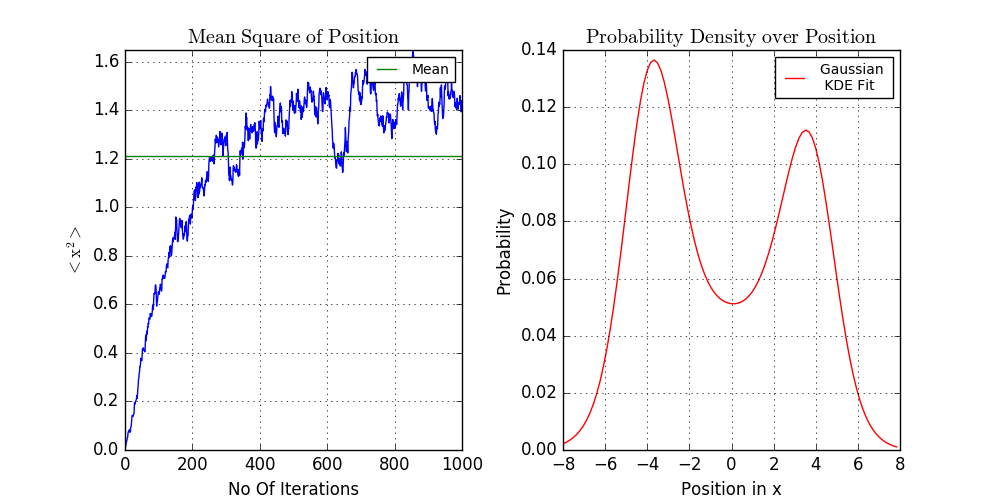
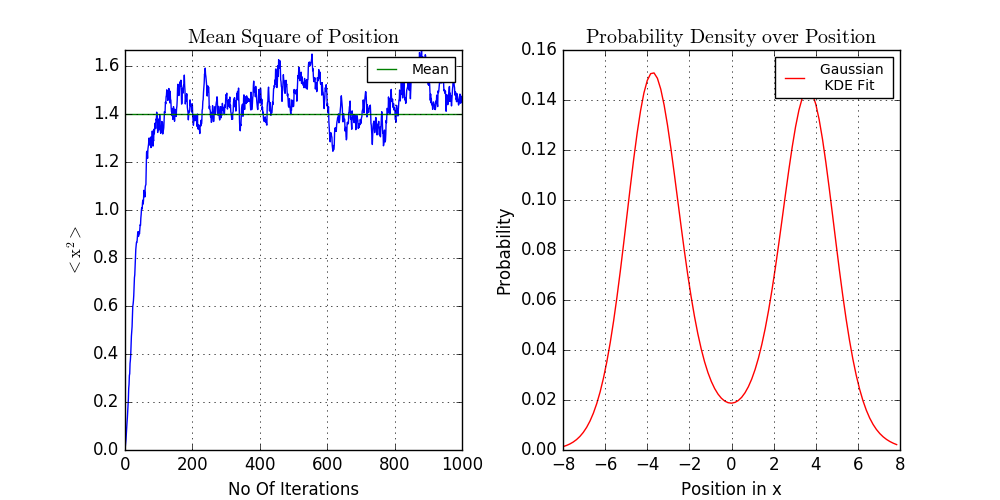
Corrections and Updates

diff --git a/PIMC.py b/PIMC.py
@@ -2,7 +2,6 @@ import numpy as np
 from scipy.stats import gaussian_kde
 import matplotlib.pyplot as plt
 import matplotlib.gridspec as gridspec
-import csv
 
 class Path(object):
 
@@ -36,44 +35,44 @@ class Path(object):
 
     def V(self,x):
 
-        return 0.5*(self.mu**2)*(x**2) + self.lam*((x**2-self.f**2)**2) #Potential Energy(PE)
-                                                                        #lam = 0 -> Harmonic Oscillator
-                                                                        #lam > 0 -> Anharmonic Oscillator
+        return 0.5*(self.mu**2)*(x**2) + self.lam*((x**2-self.f**2)**2) # Potential Energy(PE)
+                                                                        # lam = 0 -> Harmonic Oscillator
+                                                                        # lam > 0 -> Anharmonic Oscillator
 
     def DV(self,x):
 
-        return (self.mu**2)*x + 4*self.lam*x*(x**2-self.f**2)
+        return (self.mu**2)*x + 4*self.lam*x*(x**2-self.f**2) # First derivative of Potential Energy
 
     def K(self,x):
 
-        return 0.5*self.m*(x**2)*(1/self.dT**2) #Kinetic Energy(KE) with m = 1
+        return 0.5*self.m*(x**2)*(1/self.dT) # Kinetic Energy(KE) with m = 1
 
     def E(self,x):
 
         return self.V(x) + (0.5*x*self.DV(x)) # Energy from Virial Theorem - V+(0.5*x*dV/dx)
 
 
-def mcstep(path): #One Markov Chain Monte Carlo Step - Metropolis Algorithm
+def mcstep(path): # One Markov Chain Monte Carlo Step - Metropolis Algorithm
 
-    k = int(path.M * np.random.uniform()) #Pick an arbitrary index
-    x_p = path.X[k] + np.random.uniform(-path.delta_x,path.delta_x) #Pick the position corresponding to random index and..
-    k_p = k + 1                                                  #..generate new value by adding a small arbitrary change in value, delta_x.
+    k = int(path.M * np.random.uniform()) # Pick an arbitrary index
+    x_p = path.X[k] + np.random.uniform(-path.delta_x,path.delta_x) # Pick the position corresponding to random index and..
+    k_p = k + 1                                                  # ..generate new value by adding a small arbitrary change in value, delta_x.
     if (k_p > path.M-1): k_p = 0
     k_m = k - 1
     if (k_m < 0): k_m = path.M-1
-    dVa = path.V(x_p) - path.V(path.X[k]) #Potential Action
+    dVa = path.V(x_p) - path.V(path.X[k]) # Potential Action
     dKa = (path.K(path.X[k_p]-x_p) + path.K(x_p - path.X[k_m])) - (path.K(path.X[k_p] - path.X[k]) + path.K(path.X[k] - path.X[k_m])) #Kinetic Action
     dS = path.dT*(dVa + dKa) # Total Action for Harmonic Oscillator
-    if(dS < 0.0 or np.random.normal(0,1) < np.exp(-dS)): #Accept-Reject step
+    if(dS < 0.0 or np.random.normal(0,1) < np.exp(-dS)): # Accept-Reject step
         x_new = path.X[k] = x_p
     else:
         x_new = path.X[k]
 
-    return x_new #New position as determined by the acceptance probability
+    return x_new # New position as determined by the acceptance probability
 
 def render_plots(ms, x, pdf):
 
-    #Plot of MS values of position
+    # Plot of MS values of position
     f = plt.figure(1,figsize=(10, 5), dpi=80)
     fs = gridspec.GridSpec(1, 2, width_ratios=[1,1])
     fs.update(wspace = 0.3)
@@ -89,7 +88,7 @@ def render_plots(ms, x, pdf):
     plt.plot(m, label='Mean')
     plt.legend(prop={'size':10})
 
-    #Histogram of the probability density
+    # Plot of Probability density function
     plt.subplot(fs[1])
     plt.xlabel('Position in x')
     plt.ylabel('Probability')
@@ -100,29 +99,22 @@ def render_plots(ms, x, pdf):
     plt.legend(prop={'size':10})
     plt.show()
 
-def dump_data(pdf,ms,energy):
-
-    with open('PIMC_data.csv', 'w') as fp:
-        a = csv.writer(fp, delimiter=',')
-        data = [pdf, ms, energy]
-        a.writerows(data)
-
 def PIMC(path):
 
-    if(path.thermalize): #Thermalize
+    if(path.thermalize): # Thermalize
         print("Running Thermalization Steps...")
-        for i in range(path.n_steps/2): #Run over a few steps for the first time to pass burn-in phase
+        for i in range(path.n_steps/2): # Run over a few steps for the first time to pass burn-in phase
             for j in range(path.M): # Run over the full time = dT*M
                 mcstep(path)
 
-    #Production Steps
+    # Production Steps
     print("Running Production Steps...")
     ms = []
     energy = []
     ensemble_pdf = [0]*path.n_bins
     for i in range(path.n_steps): # Run over the full range of steps to obtain energy values that can be worked with
         ms.append(np.mean(np.square(path.X))/path.T)
-        for j in range(path.M): #Run over the full time = dT*M
+        for j in range(path.M): # Run over the full time = dT*M
             x_new = mcstep(path)
             bins = abs(int((x_new - path.x_min)/ (path.x_max - path.x_min) * path.n_bins))
             if(bins<path.n_bins):ensemble_pdf[bins]+=1
@@ -133,11 +125,8 @@ def PIMC(path):
     for i in range(len(ensemble_pdf)):
         a.append([x[i]]*ensemble_pdf[i])
     y = np.array([j for i in a for j in i])
-    kde = gaussian_kde(y, bw_method=0.2 / y.std(ddof=1)) #Kernel Density Estimation to determine PDF
+    kde = gaussian_kde(y, bw_method=0.2 / y.std(ddof=1)) # Kernel Density Estimation to determine PDF
     kde.covariance_factor = lambda : .25
     kde._compute_covariance()
-    pdf = kde.evaluate(x) #Normalized pdf of the ensemble of paths
+    pdf = kde.evaluate(x) # PDF of the ensemble of paths
     render_plots(ms, x, pdf)
-    print("Dumping all data into a CSV file...")
-    dump_data(pdf, ms, energy)
-    print("Finished! - All tasks successfully completed!")

diff --git a/main.py b/main.py
@@ -1,4 +1,5 @@
 from PIMC import *
+import csv
 
 #Initialize
 M = 100 #Number of time slices
@@ -9,7 +10,7 @@ mu = 1 #Oscillator Frequency?
 f = 4.0 #Arbitrary Constant? for Anharmonic Oscillator
 char = 'c' #Choose Hot = 'h' or Cold = 'c' Start
 thermalize = False #Set True to run Thermalization to pass burn-in phase
-lam = 1.0 #Quartic Coupling Constant - lam = 0 -> Harmonic Oscillator; lam > 0 -> Anharmonic Oscillator
+lam = 0.0 #Quartic Coupling Constant - lam = 0 -> Harmonic Oscillator; lam > 0 -> Anharmonic Oscillator
 n_steps = 1000  #Number of Monte Carlo steps
 x_max = 8.0 #Max value corresponding to the last bin
 n_bins = 100 #Number of bins to draw the probability density histogram over
@@ -17,4 +18,14 @@ n_bins = 100 #Number of bins to draw the probability density histogram over
 path = Path(M,T,delta_x,m,mu,f,char,thermalize,lam,n_steps,x_max,n_bins)
 
 if __name__=='__main__':
+
     PIMC(path)
+#    for i in range():
+
+#    with open('PIMC_data.csv', 'w') as fp:
+#        a = csv.writer(fp, delimiter=',')
+#        data = []
+#        a.writerows(data)
+#    print("Dumping all data into a CSV file...")
+#    dump_data()
+    print("Finished! - All tasks successfully completed!")
